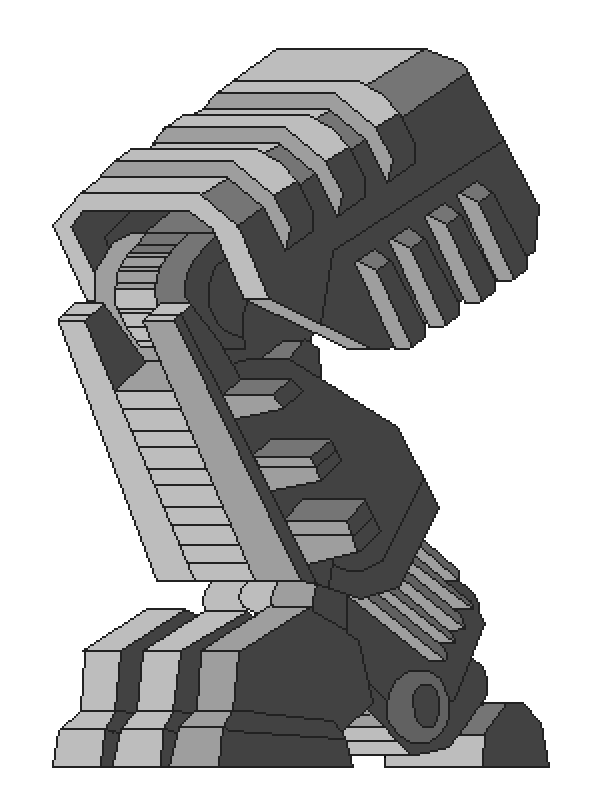
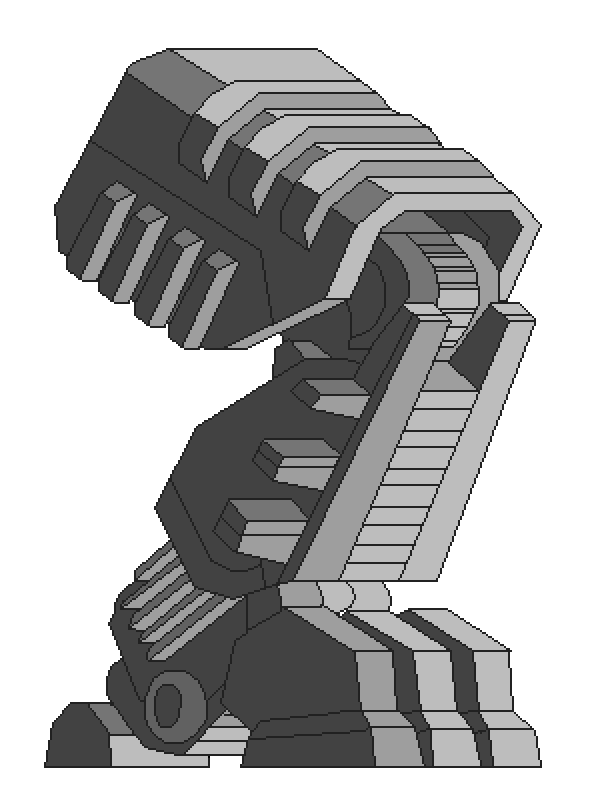
robot positioned pretty well now

diff --git a/css/style.css b/css/style.css
@@ -105,53 +105,102 @@ body {
   align-items: center;
   width: 75%;
   height: 60vh;
-  margin-top: -10% ;
+  margin-top: -9% ;
 
 }
+
+#opponent-weapons{
+  display: flex;
+  flex-direction: row;
+  justify-content: space-between;
+  width: 536px;
+  margin-bottom: -7%;
+  margin-left: 7%;
+  z-index: 1;
+}
+
+#opponent-gun {
+  /* font-size: 7em; */
+  background-image: url(../images/robot/gun-left.png);
+  background-size: cover;
+  width: 110px;
+  height: 83px;
+  /* margin: 20px;
+  padding: 20px; */
+}
+
+/* #opponent-gun img {
+  object-fit: cover;
+  width: 100px;
+  height: 100px;
+} */
+
+#opponent-sword {
+  /* font-size: 7em; */
+  background-image: url(../images/robot/sword-right.png);
+  background-size: cover;
+  width: 112px;
+  height: 87px;
+  /* margin: 20px;
+  padding: 20px; */
+}
+
+/* #opponent-sword img {
+  object-fit: cover;
+} */
+
 
 #opponent-top {
   display: flex;
   flex-direction: row;
   justify-content: space-evenly;
+  margin-right: -1%;
 }
 
 #opponent-bottom {
   display: flex;
   flex-direction: row;
-  justify-content: center;
+  margin-top: -7%;
 }
 
 #opponent-body {
   display: flex;
   flex-direction: row;
   flex-wrap: wrap;
-  
+  justify-content: center;
+  align-items: center;
+  width: 175px;
+  height: 200px;
+  background-image: url(../images/robot/body.png);
+  background-size: cover;
+  z-index: 1;
+  /* margin-left: 5%; */
+  /* margin: 5px;
+  padding: 5px; */
   /* shape-outside: inset(20px 50px 10px 0 round 50px);
   background-color: rebeccapurple;
   border: 2px solid black;
   border-radius: 10px; */
-  /* background-image: url(../images/robot/body.png);
-  background-size: cover; */
-  margin: 5px;
-  padding: 5px;
 }
 
-#opponent-body img {
+/* #opponent-body img {
   object-fit: cover;
-  width: 175px;
-  height: 200px;
-}
+} */
 
 #opponent-left-arm {
   display: flex;
   flex-direction: row;
-  width: 200px;
-  height: 200px;
-  background-image: url(../images/robot/arm.png);
+  justify-content: center;
+  align-items: center;
+  width: 125px;
+  height: 125px;
+  background-image: url(../images/robot/left-arm.png);
   background-size: cover;
   border-radius: 10px; 
-  margin: 5px;
-  padding: 5px;
+  margin-right: -12%;
+  margin-left: 2%;
+  /* margin: 5px;
+  padding: 5px; */
   /* shape-outside: inset(20px 50px 10px 0 round 50px);
   background-color: rebeccapurple;
   border: 2px solid black;
@@ -165,13 +214,16 @@ body {
 #opponent-right-arm {
   display: flex;
   flex-direction: row;
-  width: 200px;
-  height: 200px;
-  background-image: url(../images/robot/arm.png);
+  justify-content: center;
+  align-items: center;
+  width: 125px;
+  height: 125px;
+  background-image: url(../images/robot/right-arm.png);
   background-size: cover;
   border-radius: 10px;
-  margin: 5px;
-  padding: 5px;
+  margin-left: -7%;
+  /* margin: 5px;
+  padding: 5px; */
   /* shape-outside: inset(20px 50px 10px 0 round 50px);
   background-color: rebeccapurple;
   border: 2px solid black; */
@@ -185,7 +237,9 @@ body {
 #opponent-left-leg {
   display: flex;
   flex-direction: row;
-  background-image: url(../images/robot/leg.png);
+  justify-content: center;
+  align-items: center;
+  background-image: url(../images/robot/left-leg.png);
   background-size: cover;
   width: 100px;
   height: 150px;
@@ -205,9 +259,11 @@ body {
 #opponent-right-leg {
   display: flex;
   flex-direction: row;
+  justify-content: center;
+  align-items: center;
   width: 100px;
   height: 150px;
-  background-image: url(../images/robot/leg.png);
+  background-image: url(../images/robot/right-leg.png);
   background-size: cover;
   margin: 20px;
   padding: 20px;
@@ -222,35 +278,6 @@ body {
   transform: scaleX(-1);
 } */
 
-#opponent-gun {
-  /* font-size: 7em; */
-  background-image: url(../images/robot/gun2.png);
-  background-size: cover;
-  width: 100px;
-  height: 100px;
-  margin: 20px;
-  padding: 20px;
-}
-
-/* #opponent-gun img {
-  object-fit: cover;
-  width: 100px;
-  height: 100px;
-} */
-
-#opponent-sword {
-  /* font-size: 7em; */
-  background-image: url(../images/robot/sword2.png);
-  background-size: cover;
-  width: 125px;
-  height: 75px;
-  margin: 20px;
-  padding: 20px;
-}
-
-/* #opponent-sword img {
-  object-fit: cover;
-} */
 
 
 /* AREA SELECT SECTION */
@@ -259,12 +286,12 @@ body {
   display: flex;
   flex-direction: column;
   width: 50% ;
-  height: 50vh ;
-  /* padding-top: 5%; */
+  height: 39vh ;
+  padding-top: 8%;
   /* margin-top: 5% ; */
-  margin-bottom: -20%;
-  justify-content: flex-end;
-  z-index: 1;
+  margin-bottom: -16%;
+  /* justify-content: flex-end; */
+  z-index: 100;
   color: rgba(0,0,0,0.5);
 
 }
@@ -380,15 +407,16 @@ body {
 
 #damage-indicator {
   /* display: none; */
-  color: orangered;
+  /* color: orangered; */
+  background: radial-gradient(#e66465, orange);
   font-size: 5em;
 }
 
 #health-point {
   /* display: none; */
-  color: green;
+  color: #81ff47;
   font-size: 3em;
-  text-shadow: 1px 1px 2px #C733CC, 0 0 1em blue, 0 0 0.2em blue;
+  text-shadow: 1px 1px 2px #ff5947, 0 0 .25em #ff47dd, 0 0 0.2em #81ff47;
 }
 
 #current-player {

diff --git a/index.html b/index.html
@@ -43,9 +43,9 @@
     <section id="missed" class="display-none">MISSED</section>
     <section class="attack-area">
       <div class="attack-top-row">
-        <div id="attack-right"><i class="fas fa-crosshairs"></i></div>
-        <div id="attack-body"><i class="fas fa-crosshairs"></i></div>
         <div id="attack-left"><i class="fas fa-crosshairs"></i></div>
+        <div id="attack-body"><i class="fas fa-crosshairs"></i></div>
+        <div id="attack-right"><i class="fas fa-crosshairs"></i></div>
       </div>
       <div class="attack-bottom-row">
         <div id="attack-leg"><i class="fas fa-crosshairs"></i></div>
@@ -53,28 +53,34 @@
     </section>
     
     <section class="opponent">
+      <section id="opponent-weapons">
+          <div id="opponent-gun">
+            <!-- <img src="./images/robot/gun2.png" alt=""> -->
+          </div>
+          <div id="opponent-sword">
+            <!-- <img src="./images/robot/sword2.png" alt=""> -->
+          </div>
+      </section>
       <section id="opponent-top">
-        <!-- <div id="opponent-gun"><img src="./images/robot/gun2.png" alt=""></div> -->
-        <div id="opponent-right-arm">
-          <!-- <img src="./images/robot/arm.png" alt=""> -->
-        </div>
+        <div id="opponent-left-arm">
+            <!-- <img src="./images/robot/arm.png" alt=""> -->
+          </div>
         <div id="opponent-body">
           <!-- <img src="./images/robot/body.png" alt=""> -->
         </div>
-        <div id="opponent-left-arm">
-          <!-- <img src="./images/robot/arm.png" alt=""> -->
-        </div>
-        <div id="opponent-sword">
-          <!-- <img src="./images/robot/sword2.png" alt=""> -->
-        </div>
+        <div id="opponent-right-arm">
+            <!-- <img src="./images/robot/arm.png" alt=""> -->
+          </div>
+        
+       
       </section>
       <section id="opponent-bottom">
-        <div id="opponent-right-leg">
-          <!-- <img src="./images/robot/leg.png" alt=""> -->
-        </div>
         <div id="opponent-left-leg">
           <!-- <img src="./images/robot/leg.png" alt=""> -->
         </div>
+        <div id="opponent-right-leg">
+            <!-- <img src="./images/robot/leg.png" alt=""> -->
+          </div>
       </section>
     </section>
     <section class="post-battle">
